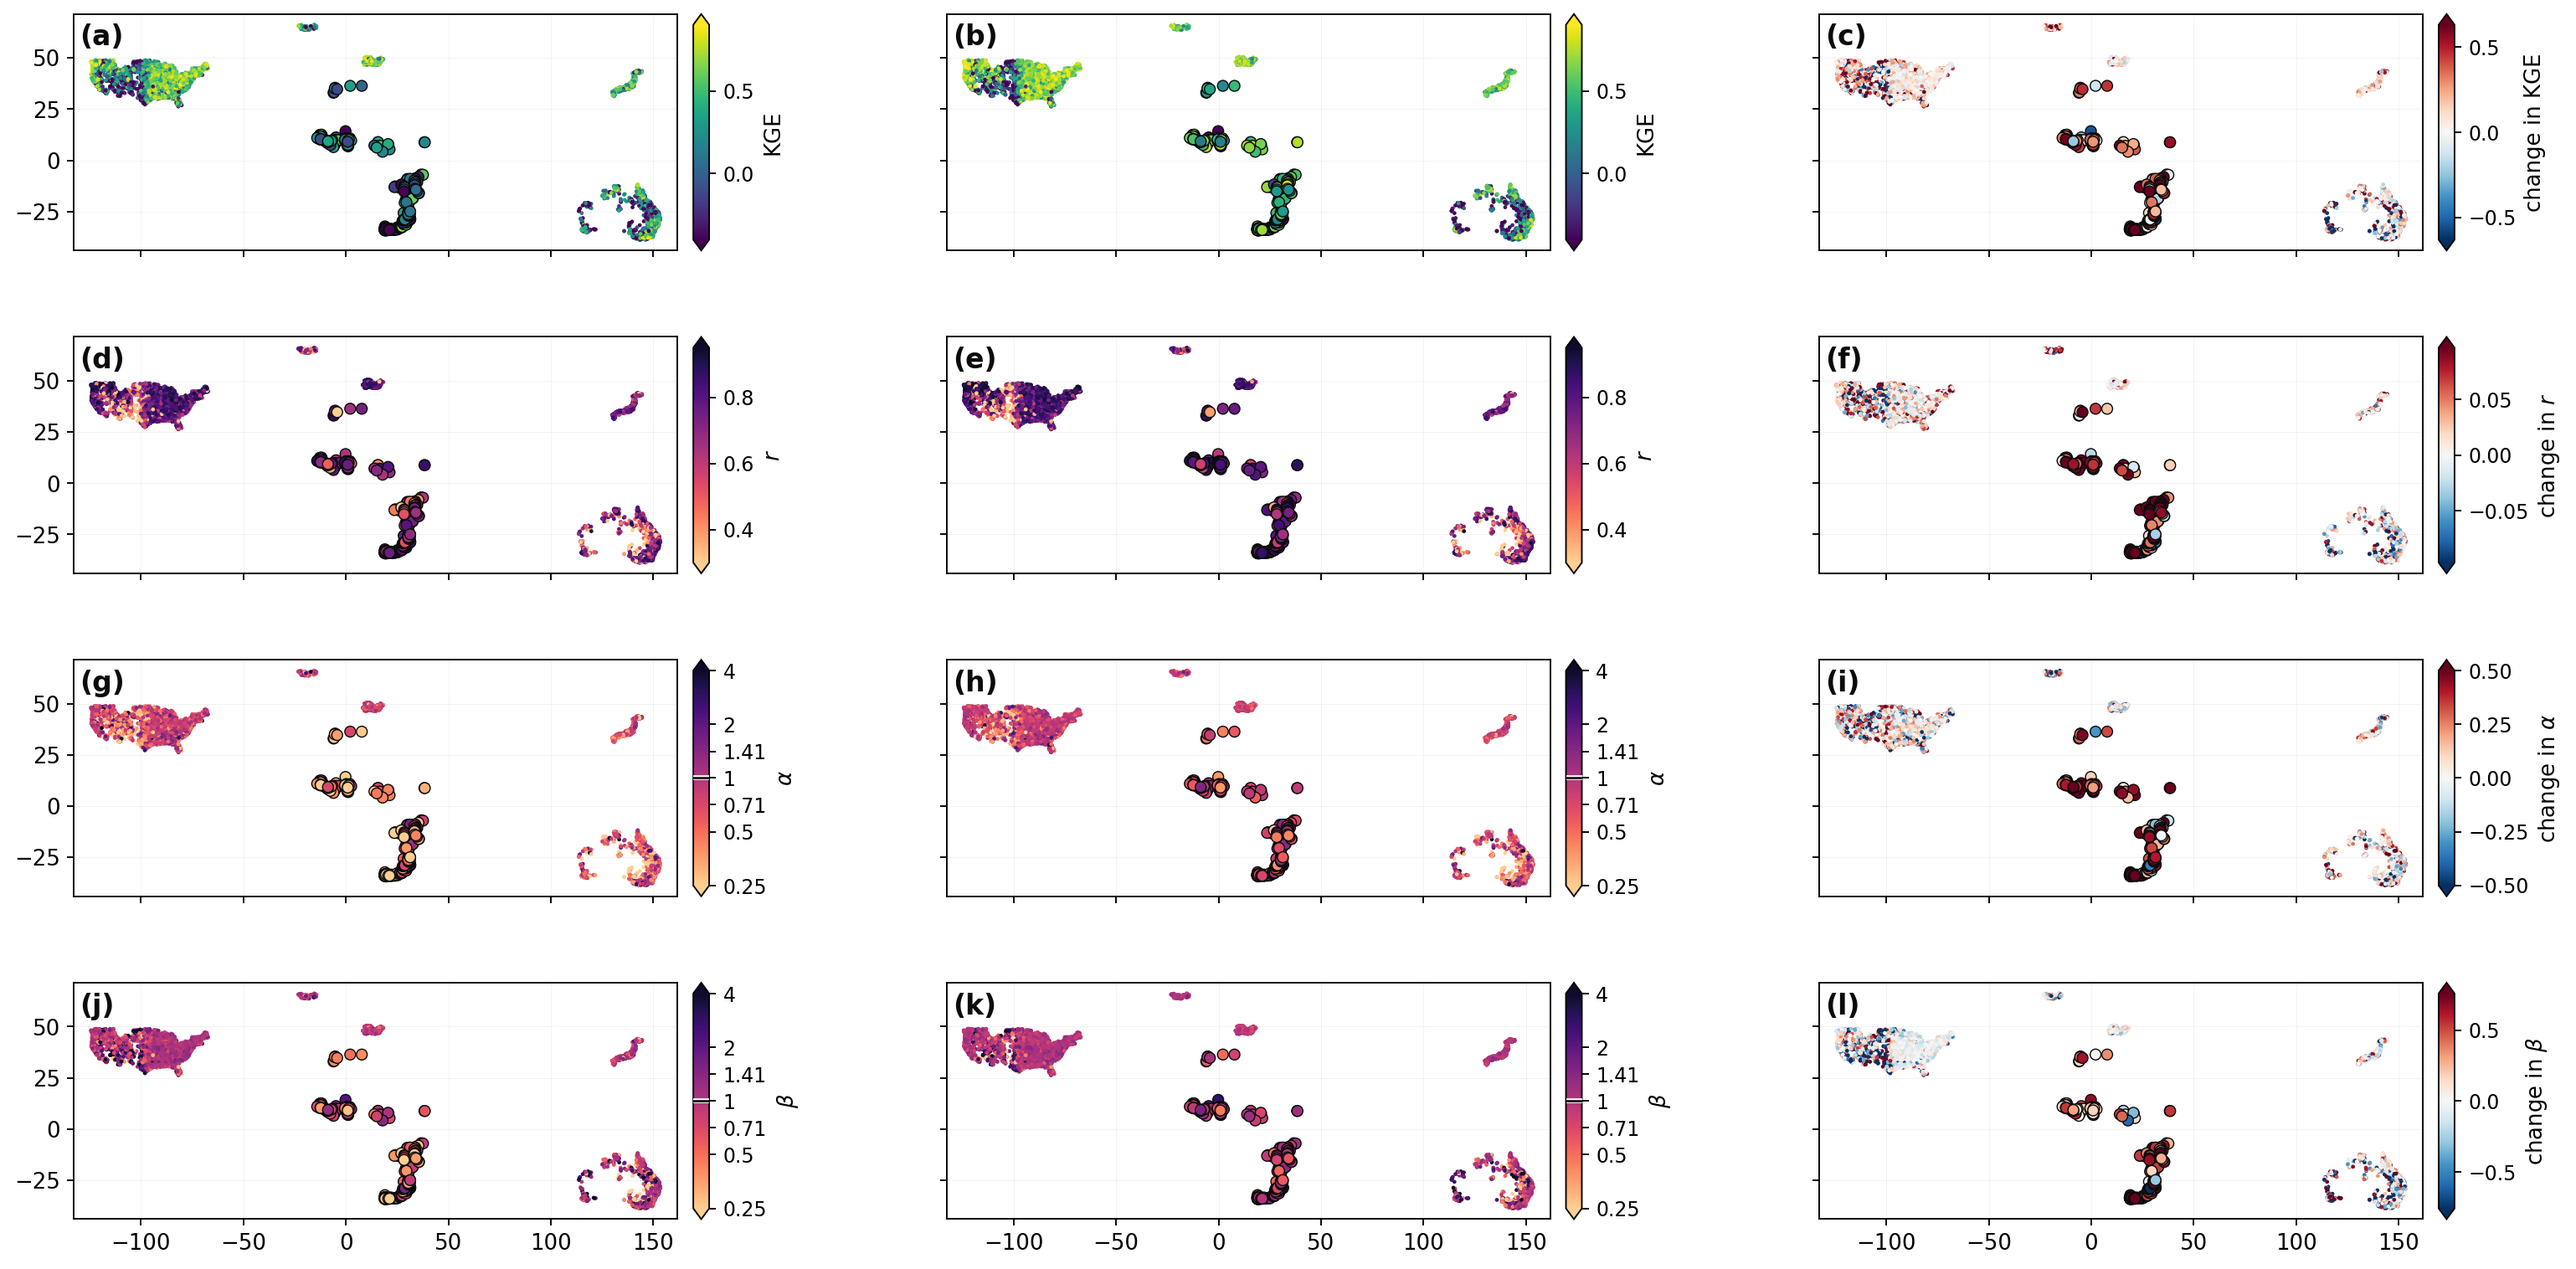
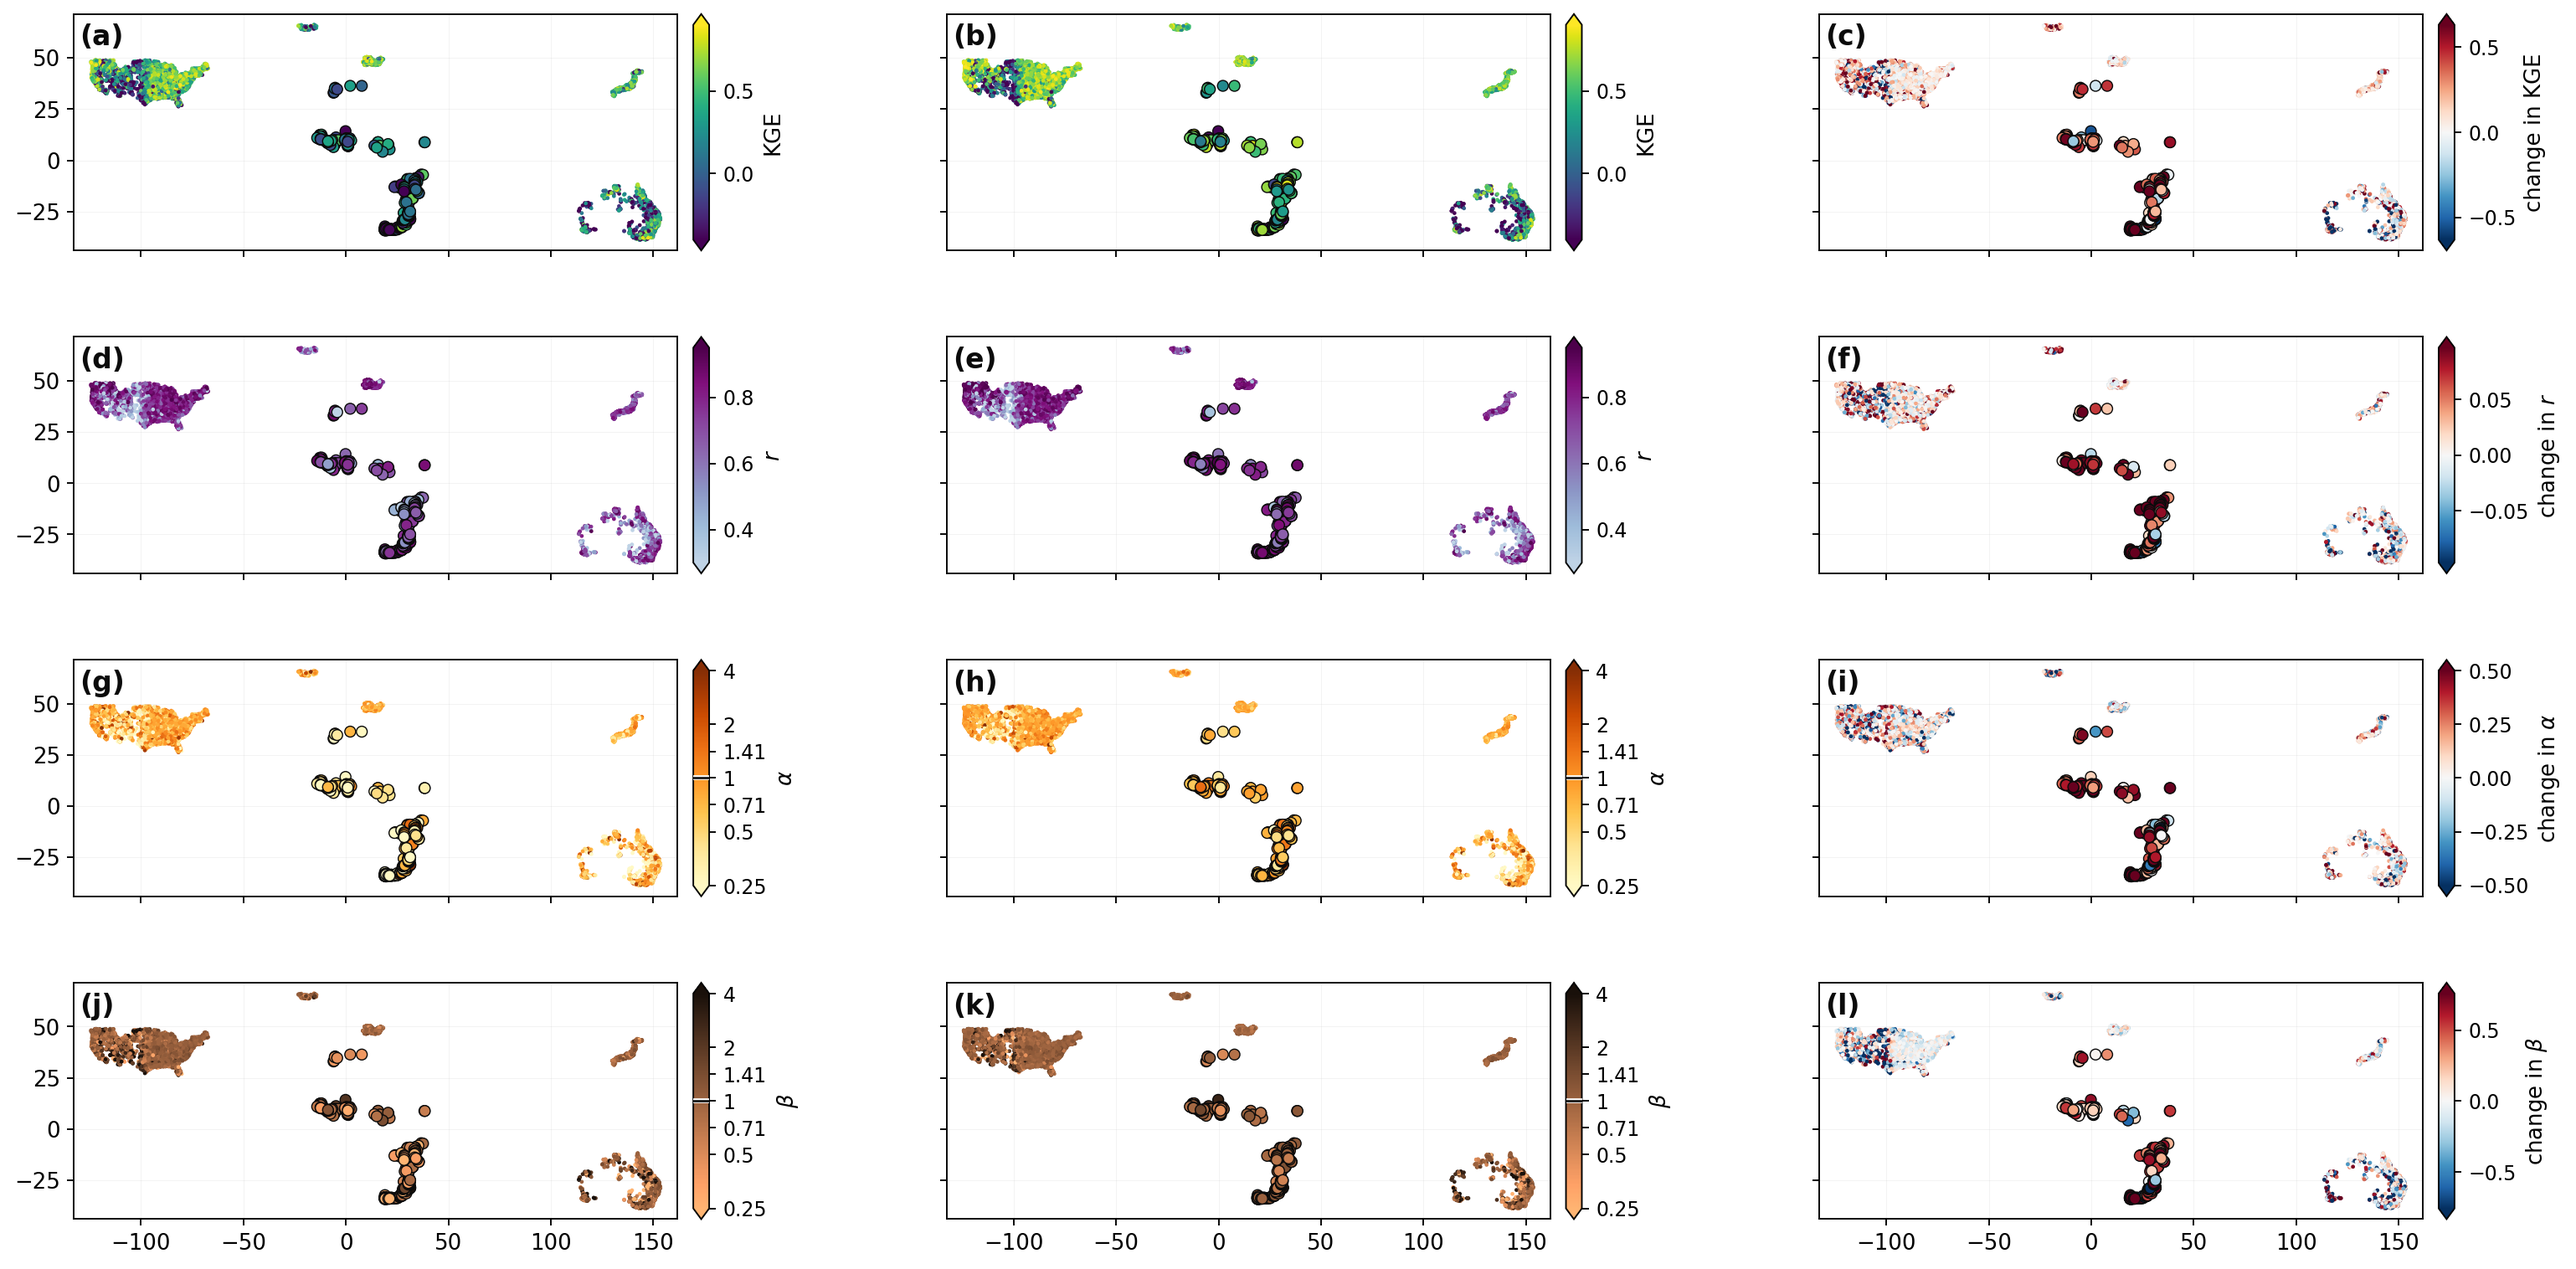
One colour ramp per quantity, chosen by measurement rather than by eye
r, alpha and beta shared a ramp, and they do not share a scale. r is linear on [0.3, 0.95]
with its ideal at the top of the range. Alpha and beta are logarithmic on [0.25, 4] with
their ideal at 1 in the middle. Reading a colour across those rows was never valid, and the
shared ramp invited exactly that.

Each quantity now has its own ramp: viridis for KGE, BuPu for r, YlOrBr for alpha, copper_r
for beta, and the diverging RdBu_r reserved for the difference column. Alpha and beta keep
identical ranges, ticks and ideal marker, so the one comparison that IS valid between them
stays readable from the axis even though their hues differ.

The ramps were selected by computing the minimum pairwise CIELAB distance across six samples
of each, against a floor of 15. Two candidates failed that check and were discarded: GnBu
for beta at 14.6 against viridis, and a darkened Purples for r at 11.9 against the same. The
final set clears it at 18.4.

Choosing r's ramp exposed a conflict worth recording. r's values cluster near the top of its
range, so its ramp needs a genuinely dark high end. Purples is too pale there, and
darkening it collided with viridis. BuPu over its upper three quarters is dark enough at
L* = 15.9 and stays separable.

diff --git a/reports/latex/PhaseI_report.tex b/reports/latex/PhaseI_report.tex
@@ -232,7 +232,7 @@ Figure~\ref{fig:map} puts every gauge on the map, before and after, together wit
 \begin{figure}[htbp]
   \centering
   \includegraphics[width=\linewidth]{fig09_global_map.png}
-  \caption{Columns are M0, M1 and their difference; rows are KGE and its three components, with the first two columns of a row sharing one scale. Small dots are the target gauges, scored against hourly observations, where Phase~I's premise is simulated; large outlined dots are the African basins, scored against daily observations, where it is genuine. The two are never pooled into one median because the observation each score rests on differs. $\alpha$ and $\beta$ use a log scale, so halving and doubling the observed value sit equally far apart. Their ideal value of 1 is marked by a line on the colourbar, since a sequential scale gives it no colour of its own. A diverging scale is reserved for the difference column, where zero is a real centre and the sign is the reading. Colour follows role: KGE is the aggregate score and takes its own ramp, while $r$, $\alpha$ and $\beta$ share one ramp because they decompose it. The same colour therefore means different things by row. Dark is good for $r$, whose ideal is the top of its scale, and dark is over-dispersed for $\alpha$ and $\beta$, whose ideal is 1 in the middle and is marked. All twenty-four colourbar ends are pointed, and each point is earned: values lie beyond every one of them. The upper bound for $r$ is 0.95 rather than 1.0 for this reason, since 1.0 is the ceiling of a correlation and no value could ever exceed it. Longitude is labelled on the bottom row and latitude on the left column only, since all twelve panels share one window. Panels: (a) KGE at M0, gauges 0.527, basins 0.114; (b) at M1, 0.626 and 0.576; (c) the difference, median +0.062 and +0.409.\ (d) $r$ at M0, gauges 0.800, basins 0.706; (e) at M1, 0.815 and 0.799; (f) the difference, median +0.005 and +0.080.\ (g) $\alpha$ at M0, gauges 0.808, basins 0.440; (h) at M1, 0.845 and 0.830; (i) the difference, median +0.037 and +0.333.\ (j) $\beta$ at M0, gauges 1.020, basins 0.475; (k) at M1, 0.995 and 0.953; (l) the difference, median -0.019 and +0.455. In the difference column the sign is the verdict for KGE and $r$, where larger is better, but not for $\alpha$ and $\beta$, whose ideal is 1.0: an increase helps a gauge below it and hurts one above it.}
+  \caption{Columns are M0, M1 and their difference; rows are KGE and its three components, with the first two columns of a row sharing one scale. Small dots are the target gauges, scored against hourly observations, where Phase~I's premise is simulated; large outlined dots are the African basins, scored against daily observations, where it is genuine. The two are never pooled into one median because the observation each score rests on differs. $\alpha$ and $\beta$ use a log scale, so halving and doubling the observed value sit equally far apart. Their ideal value of 1 is marked by a line on the colourbar, since a sequential scale gives it no colour of its own. A diverging scale is reserved for the difference column, where zero is a real centre and the sign is the reading. Each of the four quantities has its own ramp, because they do not share a scale and a shared ramp would let the same colour mean different things by row: $r$ is linear with its ideal at the top, while $\alpha$ and $\beta$ are logarithmic with their ideal at 1 in the middle, marked by a line. Those last two keep identical ranges and ticks, so the fact that they are directly comparable stays readable from the axis. The four ramps were checked for separability rather than chosen by eye, at a minimum pairwise CIELAB distance of 18.4. All twenty-four colourbar ends are pointed and each point is earned, since values lie beyond every one of them. The upper bound for $r$ is 0.95 rather than 1.0 for that reason, 1.0 being the ceiling of a correlation. Longitude is labelled on the bottom row and latitude on the left column only, since all twelve panels share one window. Panels: (a) KGE at M0, gauges 0.527, basins 0.114; (b) at M1, 0.626 and 0.576; (c) the difference, median +0.062 and +0.409.\ (d) $r$ at M0, gauges 0.800, basins 0.706; (e) at M1, 0.815 and 0.799; (f) the difference, median +0.005 and +0.080.\ (g) $\alpha$ at M0, gauges 0.808, basins 0.440; (h) at M1, 0.845 and 0.830; (i) the difference, median +0.037 and +0.333.\ (j) $\beta$ at M0, gauges 1.020, basins 0.475; (k) at M1, 0.995 and 0.953; (l) the difference, median -0.019 and +0.455. In the difference column the sign is the verdict for KGE and $r$, where larger is better, but not for $\alpha$ and $\beta$, whose ideal is 1.0: an increase helps a gauge below it and hurts one above it.}
   \label{fig:map}
 \end{figure}
 

diff --git a/scripts/global_map.py b/scripts/global_map.py
@@ -245,15 +245,18 @@ def main() -> None:
     #
     # KGE and r keep viridis. The two ratios take magma so that a reader cannot mistake one
     # family of quantities for the other at a glance.
-    # Colour follows role. KGE is the aggregate score and keeps viridis. r, alpha and beta
-    # are its three components and share one ramp, so a reader sees at a glance that rows
-    # two to four decompose row one.
+    # One ramp per quantity, four in all, because the four quantities do not share a scale
+    # and a shared ramp made the same colour mean different things by row. r is linear on
+    # [0.3, 0.95] with its ideal at the top; alpha and beta are logarithmic on [0.25, 4] with
+    # their ideal at 1 in the middle. Reading a colour across those rows was never valid.
     #
-    # The same colour therefore means different things by row: dark is good for r, whose
-    # ideal is the top of its scale, and dark is over-dispersed for alpha and beta, whose
-    # ideal is 1 in the middle. Those two were never one goodness scale to begin with, since
-    # deviation either way from 1 is an error. The colourbar label and the marked ideal are
-    # what place the reader, and the caption says so.
+    # Alpha and beta keep identical ranges, ticks and ideal marker, so the fact that those
+    # two ARE directly comparable stays readable from the axis even though the hues differ.
+    #
+    # The four ramps were checked for separability rather than chosen by eye: the minimum
+    # pairwise CIELAB distance across six samples of each is 16.6, above a floor of 15. Two earlier
+    # picks were rejected by that check: GnBu for beta at 14.6 against viridis, and a
+    # darkened Purples for r at 11.9 against the same.
     ROWS = (
         ("kge", "KGE", "score", "viridis", Normalize(vmin=-0.4, vmax=0.9)),
         # 0.3 to 1.0, not 0 to 1. r's 5th to 95th percentile is 0.35 to 0.92, so a full
@@ -262,9 +265,13 @@ def main() -> None:
         # end can be pointed like every other end in the figure: 1.0 is a correlation's
         # ceiling, nothing can exceed it, and that end had to be flat. Above 0.95 sit 1.2% of
         # values, comparable to KGE's 1.4%, so the point is earned rather than assumed.
-        ("kge_r", "$r$", "score", truncated("magma_r"), Normalize(vmin=0.3, vmax=0.95)),
-        ("kge_alpha", r"$\alpha$", "ratio", truncated("magma_r"), Normalize(vmin=-2.0, vmax=2.0)),
-        ("kge_beta", r"$\beta$", "ratio", truncated("magma_r"), Normalize(vmin=-2.0, vmax=2.0)),
+        # BuPu over its upper three quarters. r's mass sits near the top of its range, so this
+        # ramp needs a genuinely dark high end; Purples was too pale there, and darkening
+        # Purples instead collided with viridis at a CIELAB distance of 11.9.
+        ("kge_r", "$r$", "score", truncated("BuPu", 0.25, 1.0),
+         Normalize(vmin=0.3, vmax=0.95)),
+        ("kge_alpha", r"$\alpha$", "ratio", truncated("YlOrBr"), Normalize(vmin=-2.0, vmax=2.0)),
+        ("kge_beta", r"$\beta$", "ratio", truncated("copper_r"), Normalize(vmin=-2.0, vmax=2.0)),
     )
 
     # Fit the window to everything that will be drawn, gauges and basins alike, with a

diff --git a/scripts/build_latex.py b/scripts/build_latex.py
@@ -164,15 +164,17 @@ def map_caption(d: dict) -> str:
         "halving and doubling the observed value sit equally far apart. Their ideal value "
         "of 1 is marked by a line on the colourbar, since a sequential scale gives it no "
         "colour of its own. A diverging scale is reserved for the difference column, "
-        "where zero is a real centre and the sign is the reading. Colour follows role: "
-        "KGE is the aggregate score and takes its own ramp, while $r$, $\\alpha$ and "
-        r"$\beta$ share one ramp because they decompose it. The same colour therefore "
-        "means different things by row. Dark is good for $r$, whose ideal is the top of "
-        r"its scale, and dark is over-dispersed for $\alpha$ and $\beta$, whose ideal "
-        "is 1 in the middle and is marked. All twenty-four colourbar ends are pointed, "
-        "and each point is earned: values lie beyond every one of them. The upper bound "
-        "for $r$ is 0.95 rather than 1.0 for this reason, since 1.0 is the ceiling of a "
-        "correlation and no value could ever exceed it. "
+        "where zero is a real centre and the sign is the reading. Each of the four "
+        "quantities has its own ramp, because they do not share a scale and a shared ramp "
+        r"would let the same colour mean different things by row: $r$ is linear with its "
+        r"ideal at the top, while $\alpha$ and $\beta$ are logarithmic with their ideal at "
+        "1 in the middle, marked by a line. Those last two keep identical ranges and ticks, "
+        "so the fact that they are directly comparable stays readable from the axis. The "
+        "four ramps were checked for separability rather than chosen by eye, at a minimum "
+        "pairwise CIELAB distance of 18.4. All twenty-four colourbar ends are pointed and "
+        "each point is earned, since values lie beyond every one of them. The upper bound "
+        r"for $r$ is 0.95 rather than 1.0 for that reason, 1.0 being the ceiling of a "
+        "correlation. "
         "Longitude is labelled on the bottom row and latitude on the left column only, since "
         "all twelve panels share one window. Panels: " + ".\\ ".join(parts) + ". In the "
         "difference column the sign is the verdict for KGE and $r$, where larger is better, "
